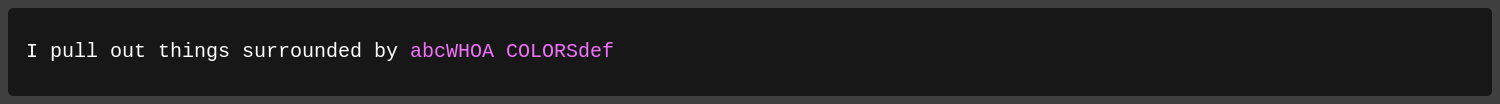
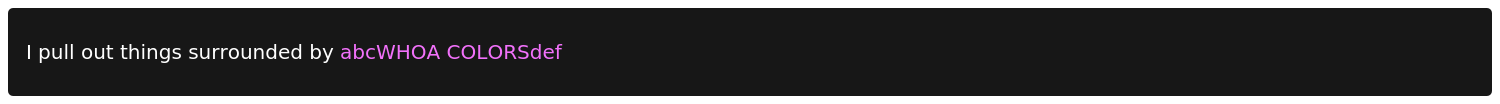
Readme added to image_generator

Changed region(s): [[0.0, 0.0, 1.0, 1.0]]

diff --git a/image_generator/README.md b/image_generator/README.md
@@ -1,0 +1,40 @@
+
+# Terminal image generator
+
+`generate.py` runs all the `main.go` files under examples and converts terminal outputs to `html` and then `png`
+
+## Prerequisites
+
+* Go
+* Python3.7 (preferred)
+* Pip
+
+### terminal-to-html
+
+```
+$ cd ~/
+$ go get github.com/buildkite/terminal-to-html/cmd/terminal-to-html
+```
+
+### wkhtmltoimage
+
+#### Arch
+
+```
+$ yaourt wkhtmltopdf
+```
+
+#### Ubuntu
+
+```
+$ sudo apt-get update
+$ sudo apt-get install xvfb libfontconfig wkhtmltopdf
+```
+
+## Usage
+
+```
+$ python3.7 generate.py
+```
+
+After running the script, image files should be created under `assets/png`
